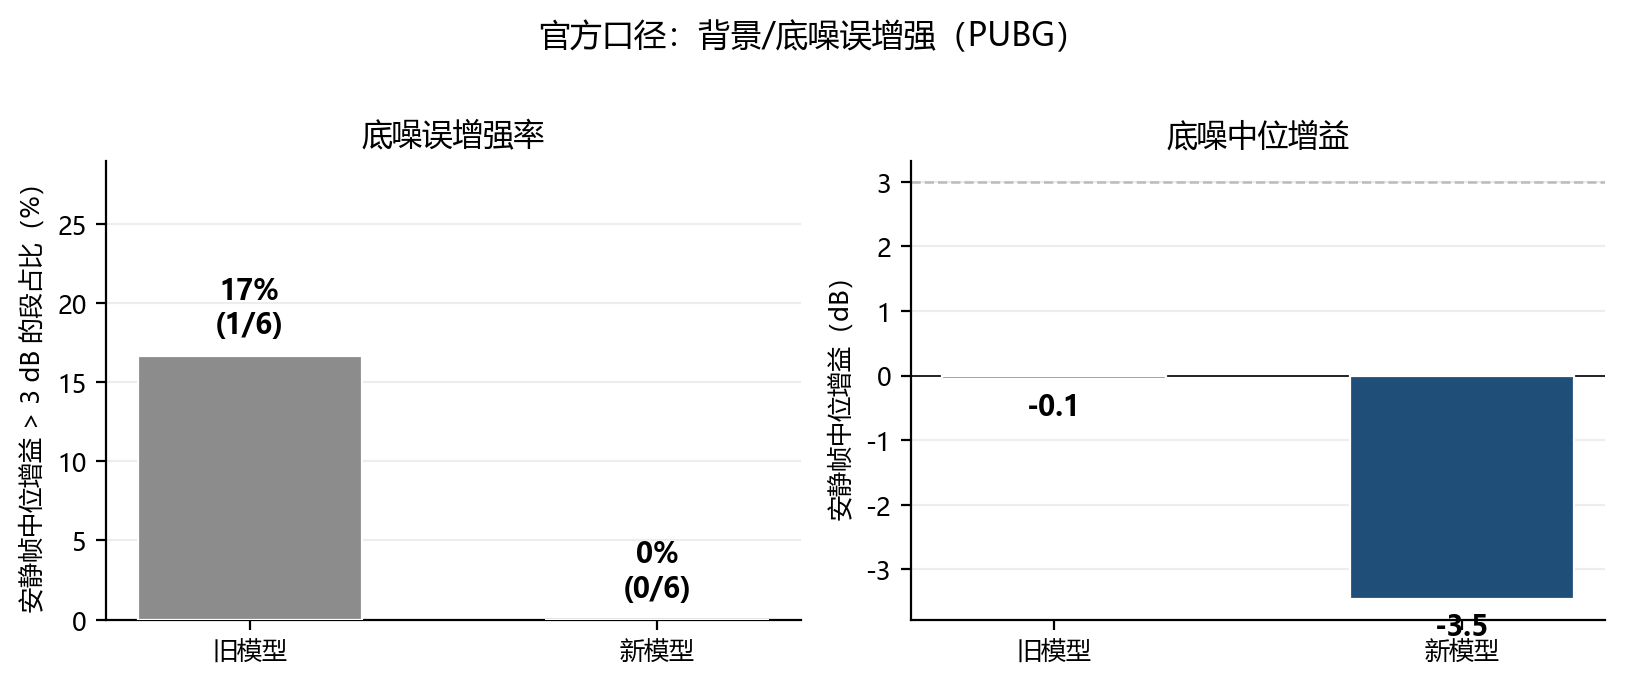
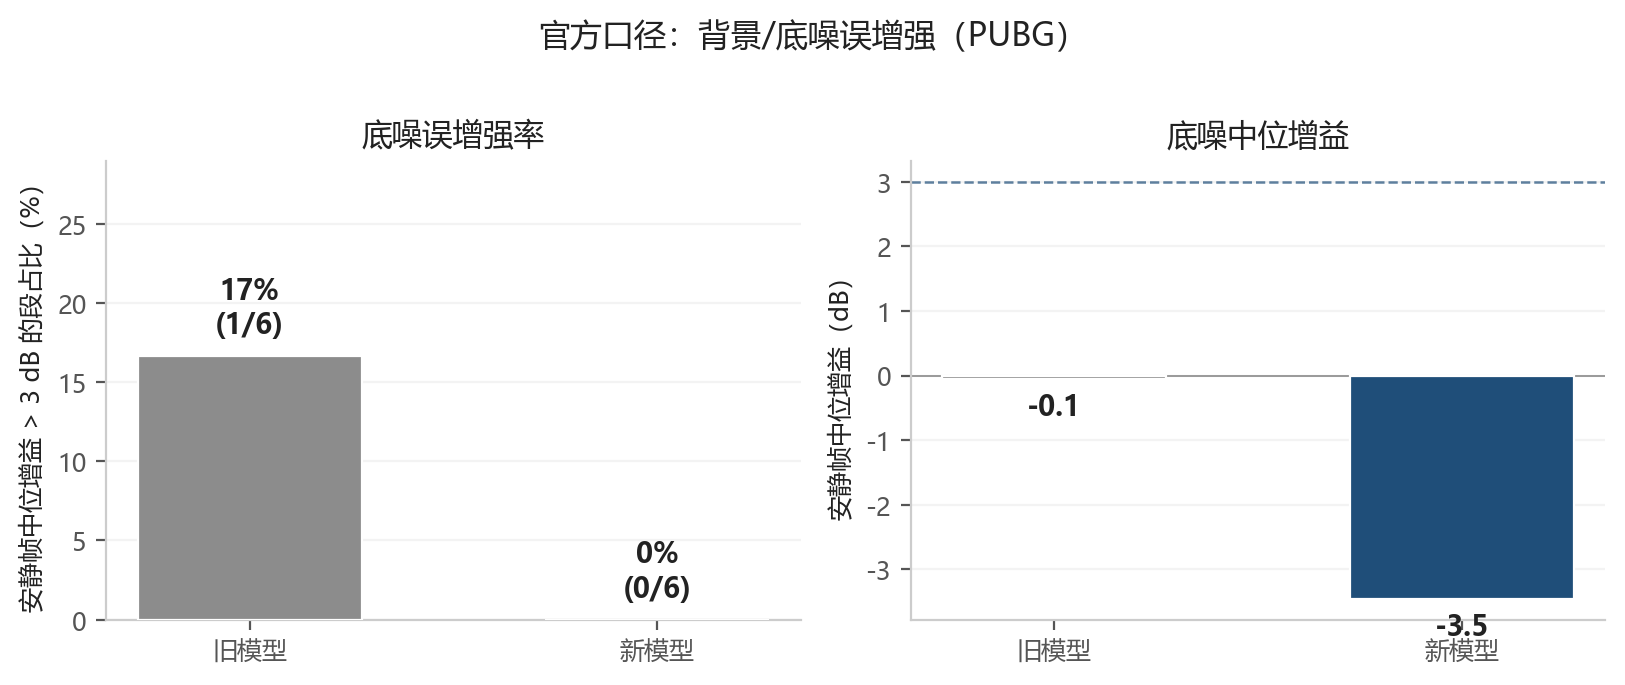
Prune obsolete NM drafts and note small-sample limits in reports.

diff --git a/analysis/report_pubg_newmodel.py b/analysis/report_pubg_newmodel.py
@@ -385,7 +385,8 @@ TEMPLATE = PREAMBLE + r"""
 
 \section{一句话}
 \keybox{新模型在 PUBG 上\textbf{兑现了“少抬底噪”}；脚步增强未削弱。
-事件级误增强与枪声音色有一定回退，但不构成主能力全面变差——若验收只盯背景口径，可以过；若同时卡 FER/音色，需另议。}
+事件级误增强与枪声音色有一定回退，但不构成主能力全面变差——若验收只盯背景口径，可以过；若同时卡 FER/音色，需另议。\\[2pt]
+\textbf{局限：}背景空隙仅 [[n_bg]] 段、仅限 PUBG，宜作方向性证据，不足以单独支撑全产品线定论。}
 
 \vspace{6mm}
 {\small 复现：\texttt{python analysis/report\_pubg\_newmodel.py}\par}
@@ -468,6 +469,7 @@ def build_html(vb, s, bf, other_verdict, other_detail, fig_ex=None, fig_claim=No
   以段内安静帧（短时电平 &lt; −65 dBFS）中位增益衡量底噪：超过 3 dB 的段由
   {pct(vb["rate_o"])} 降至 {pct(vb["rate_n"])}，中位增益 {sgn(vb["med_o"])} → {sgn(vb["med_n"])} dB。
   <div class="sub"><b>其他能力 · </b>{other_verdict}</div>
+  <div class="sub"><b>局限 · </b>背景空隙仅 {len(bf)} 段、仅限 PUBG，宜作方向性证据，不足以单独支撑全产品线定论。</div>
 </div>
 
 <div class="readouts">

diff --git a/docs/report_tex/tables/nm_bg_summary.tex b/docs/report_tex/tables/nm_bg_summary.tex
@@ -1,5 +1,5 @@
 \begin{table}[htbp]\centering
-\caption{PUBG 新模型：底噪误增强（安静帧口径）}\label{tab:nm_bg_summary}
+\caption{主口径（安静帧）}\label{tab:nm_bg_summary}
 {\small\begin{threeparttable}
 \begin{tabularx}{\linewidth}{Lccc}\toprule
 指标 & 旧模型 & 新模型 & $\Delta$ \\
@@ -7,5 +7,5 @@
 底噪误增强率（安静帧 $>$3 dB） & 17\% & 0\% & $-$17\% \\
 底噪中位增益（dB） & $-$0.1 & $-$3.5 & $-$3.4 \\
 \bottomrule\end{tabularx}
-\begin{tablenotes}\footnotesize\item 仅 PUBG，背景空隙 n=6；安静帧 <-65 dBFS。\item 与上文「背景段误增强率 30\%」不同：彼为 VALORANT+PUBG 全样本、整段 RMS 口径；本节为 PUBG、安静帧口径。\end{tablenotes}\end{threeparttable}}
+\begin{tablenotes}\footnotesize\item 仅 PUBG，背景空隙 n=6；安静帧 <-65 dBFS。\item 与主报告「背景段误增强率 30\%」（VALORANT+PUBG、整段 RMS）不是同一口径。\end{tablenotes}\end{threeparttable}}
 \end{table}

diff --git a/docs/report_tex/tables/nm_other.tex b/docs/report_tex/tables/nm_other.tex
@@ -1,10 +1,13 @@
 \begin{table}[htbp]\centering
-\caption{PUBG 新模型：其他能力快检（非环境音主口径）}\label{tab:nm_other}
+\caption{其他能力快检（非本次官方主口径）}\label{tab:nm_other}
 {\small\begin{threeparttable}
 \begin{tabularx}{\linewidth}{Lcccc}\toprule
 能力 & 旧模型 & 新模型 & 变化 & 是否明显削弱 \\
 \midrule
 脚步中位增益 & $+$11.8 & $+$12.3 & $+$0.5 & 否 \\
+脚步 $\geq$3 dB 比例 & 93\% & 92\% & $-$1\% & 否 \\
+同电平 $\Delta$G（脚步$-$枪声） & $+$10.2 & $+$11.1 & $+$1.0 & 否 \\
+不含脚步的枪声中位 & 0.0 & $+$0.1 & 0.0 & 否 \\
 事件 FER（不含脚步非脚步） & 7\% & 11\% & 4\% & 有回退（有限） \\
 纯净枪声频谱 MSE & 2.0 & 3.3 & $+$1.4 & 有回退（有限） \\
 \bottomrule\end{tabularx}

diff --git a/docs/report_tex/pubg_newmodel.tex b/docs/report_tex/pubg_newmodel.tex
@@ -86,7 +86,8 @@
 
 \section{一句话}
 \keybox{新模型在 PUBG 上\textbf{兑现了“少抬底噪”}；脚步增强未削弱。
-事件级误增强与枪声音色有一定回退，但不构成主能力全面变差——若验收只盯背景口径，可以过；若同时卡 FER/音色，需另议。}
+事件级误增强与枪声音色有一定回退，但不构成主能力全面变差——若验收只盯背景口径，可以过；若同时卡 FER/音色，需另议。\\[2pt]
+\textbf{局限：}背景空隙仅 6 段、仅限 PUBG，宜作方向性证据，不足以单独支撑全产品线定论。}
 
 \vspace{6mm}
 {\small 复现：\texttt{python analysis/report\_pubg\_newmodel.py}\par}
